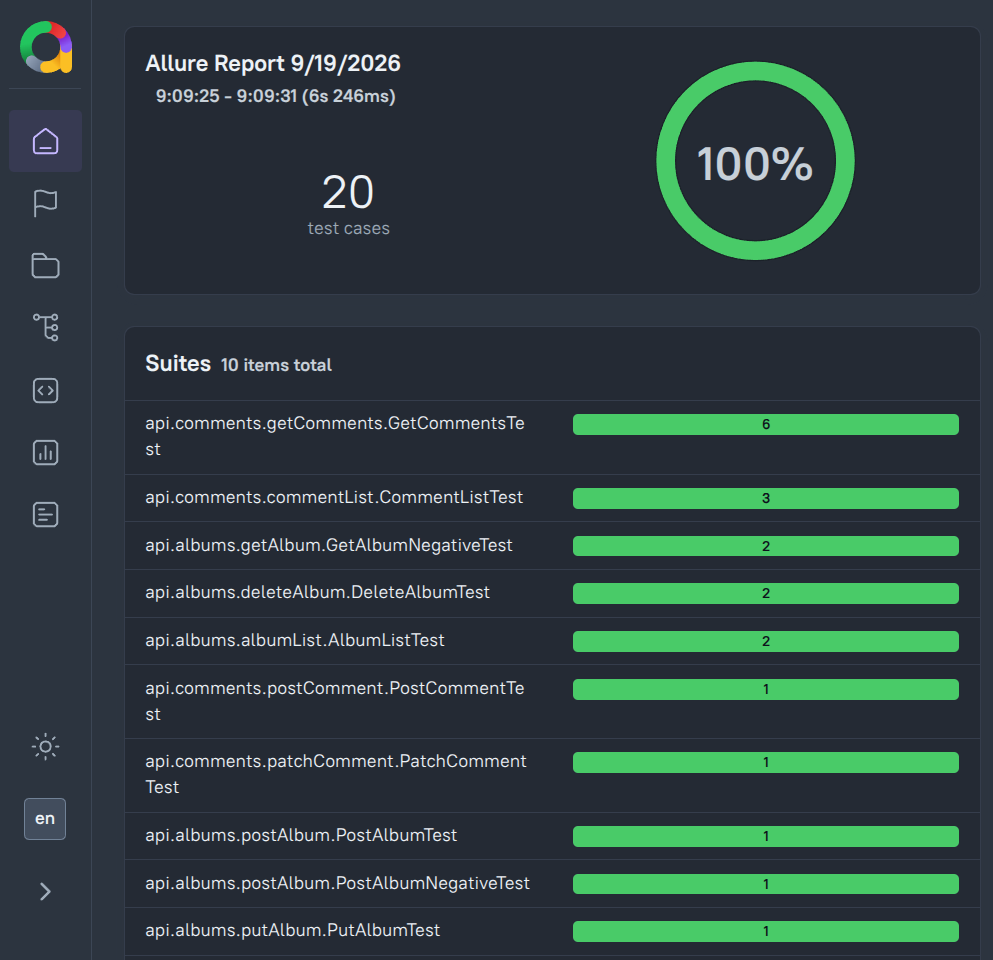
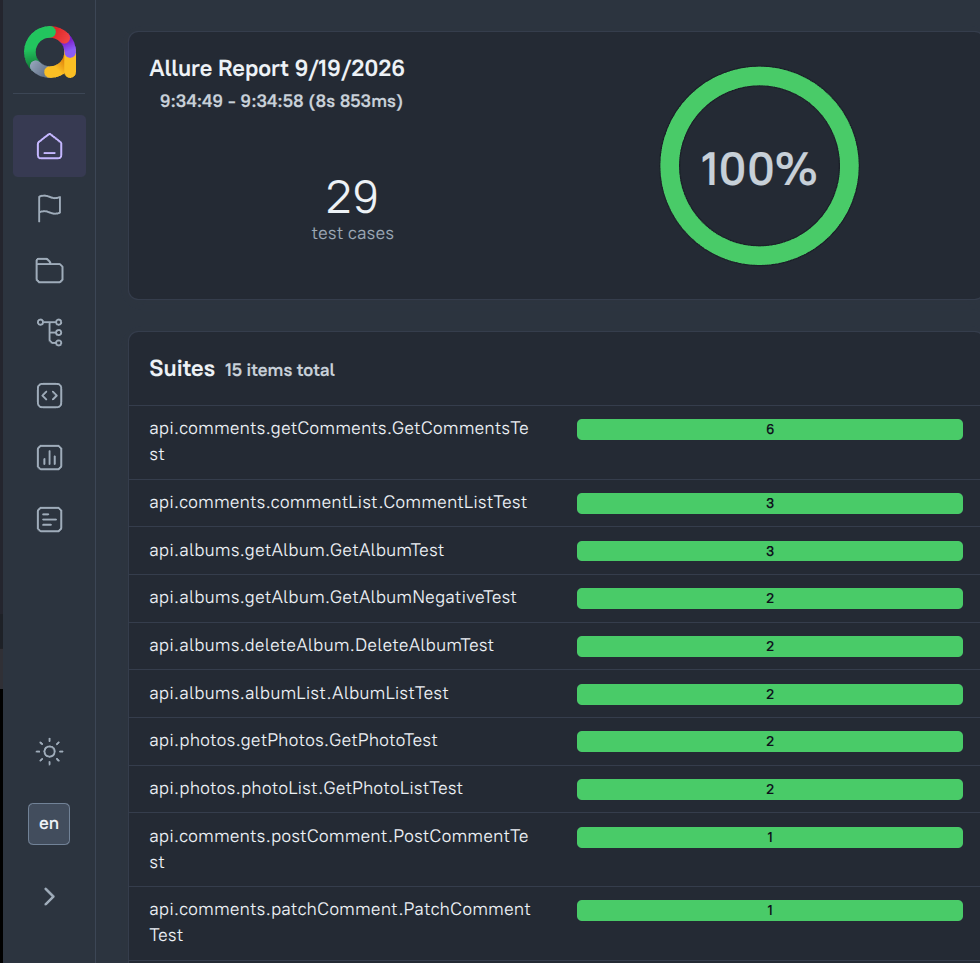
fix: description and endpoints in readme file

diff --git a/README.md b/README.md
@@ -1,77 +1,69 @@
 [![Run Rest Assured API Tests](https://github.com/Nagraggini/jsonplaceholder-demo-api/actions/workflows/maven-tests.yml/badge.svg)](https://github.com/Nagraggini/jsonplaceholder-demo-api/actions/workflows/maven-tests.yml)
 
-![Top Language](https://img.shields.io/github/languages/top/Nagraggini/reqres)
-![Rest Assured](https://img.shields.io/badge/Rest%20Assured-API-orange) ![License](https://img.shields.io/badge/license-MIT-green)
+![Top Language](https://img.shields.io/github/languages/top/Nagraggini/jsonplaceholder-demo-api)
+![Rest Assured](https://img.shields.io/badge/Rest%20Assured-API-orange) 
+![License](https://img.shields.io/badge/license-MIT-green)
 
 # JSONPlaceholder API Test Automation
 
-Automated REST API test project built with **Java**, **REST Assured**, **JUnit 5**, and **Maven**.
+Automated REST API test automation framework built with **Java 21**, **REST Assured**, **JUnit 5**, **Jackson**, **Allure Report**, and **Maven**.
 
-The project uses the free [JSONPlaceholder](https://jsonplaceholder.typicode.com/) API to practise automated API testing, response validation, JSON processing, POJO serialization and deserialization, and positive and negative test scenarios.
+The project tests the free [JSONPlaceholder](https://jsonplaceholder.typicode.com/) fake REST API, focusing on positive and negative test scenarios, status code validations, JSON schema and body assertions, dynamic query parameters, and POJO serialization/deserialization.
 
 ## Allure Test Report
+
+The automated test results and execution reports are generated and published automatically via GitHub Actions:
+
 ![Allure Report](docs/assets/img/allure_report.png)         
 
-📊 [View the Allure Report](https://nagraggini.github.io/jsonplaceholder-demo-api/)
+📊 [View the Live Allure Report](https://nagraggini.github.io/jsonplaceholder-demo-api/)
 
-## Technologies
+## Technologies Used
 
-- Java 21
-- REST Assured 5.5.6
-- JUnit 5
-- Hamcrest Matchers
-- Jackson Databind
-- Maven
-- Maven Surefire Plugin
+- **Java 21**
+- **REST Assured 5.5.6**
+- **JUnit 5**
+- **Jackson Databind** (POJO mapping)
+- **Allure Framework** (Reporting)
+- **Maven** (Build & Dependency Management)
 
-## Test scenarios
+## Covered Endpoints & Test Scenarios
 
-The project contains or is being extended with the following album API scenarios:
+### Albums (`/albums`)
+- Fetch full album lists and validate response structures.
+- Fetch individual albums by ID (Positive & Negative 404 cases).
+- Filter albums by `userId`.
+- Create new albums (`POST`) and validate dynamic response data.
+- Update (`PUT`) and remove (`DELETE`) albums.
 
-- Get the complete album list
-- Validate the response status code, structure, and number of albums
-- Verify that every album contains the required fields
-- Get and validate a specific album by ID
-- Search for an album in the returned collection
-- Filter albums by user ID
-- Verify an empty result for a non-existing user ID
-- Verify the response for a non-existing album
-- Create a new album with a POST request
-- Validate the created album and extract its generated ID
-- Send a POST request to an invalid endpoint
+### Comments (`/comments`)
+- Fetch and validate full and filtered comment collections.
+- Create (`POST`), full update (`PUT`), partial update (`PATCH`), and delete (`DELETE`) comments.
+- Verify payload fields (`postId`, `name`, `email`, `body`).
 
-## Project structure
+### Photos (`/photos`)
+- Retrieve individual photo details and photo lists.
+- Validate photo metadata (`albumId`, `title`, `url`, `thumbnailUrl`).
+
+---
+
+## Project Structure
 
 ```text
 src/test/java
 ├── albumsPOJO
 │   └── Album.java
+├── commentPOJO
+│   └── Comment.java
+├── photoPOJO
+│   └── Photo.java
 ├── api
-│   └── albums
-│       ├── getAlbum
-│       └── postAlbum
+│   ├── albums
+│   ├── comments
+│   └── photos
 └── base
     └── BaseApiTest.java
-```
 
-- `BaseApiTest` contains the common base URI and JSON request configuration.
-- `Album` is the POJO used for JSON serialization and deserialization.
-- The `api` packages contain the positive and negative API test classes.
-
-## Example test
-
-```java
-@Test
-@DisplayName("Get a non-existing album")
-void getNonExistingAlbumTest() {
-    given()
-    .when()
-        .get("/albums/999")
-    .then()
-        .log().ifValidationFails()
-        .statusCode(404)
-        .body("$", anEmptyMap());
-}
 ```
 
 ## Running the tests
@@ -88,29 +80,14 @@ The Maven Wrapper is included, so a separate Maven installation is not required.
 ```bash
 chmod +x mvnw
 ./mvnw clean test
+
 ```
 
 ### Windows (PowerShell)
-
 ```powershell
 mvnw.cmd clean test
+
 ```
-
-## API under test
-
-Base URL:
-
-```text
-https://jsonplaceholder.typicode.com
-```
-
-Main resource used by the project:
-
-```text
-/albums
-```
-
-JSONPlaceholder is a fake API intended for learning and prototyping. Write operations such as POST do not permanently save the submitted data.
 
 ## Learning goals
 
@@ -124,11 +101,3 @@ This project demonstrates my practical experience with:
 - mapping JSON responses to Java objects;
 - extracting values and complete responses for further validation;
 - organizing reusable API test configuration.
-
-## Author
-
-Created by [Nagraggini](https://github.com/Nagraggini) as part of a software testing and Java learning portfolio.
-
-## License
-
-This project is available under the terms of the [MIT License](https://github.com/Nagraggini/jsonplaceholder-demo-api?tab=MIT-1-ov-file).
